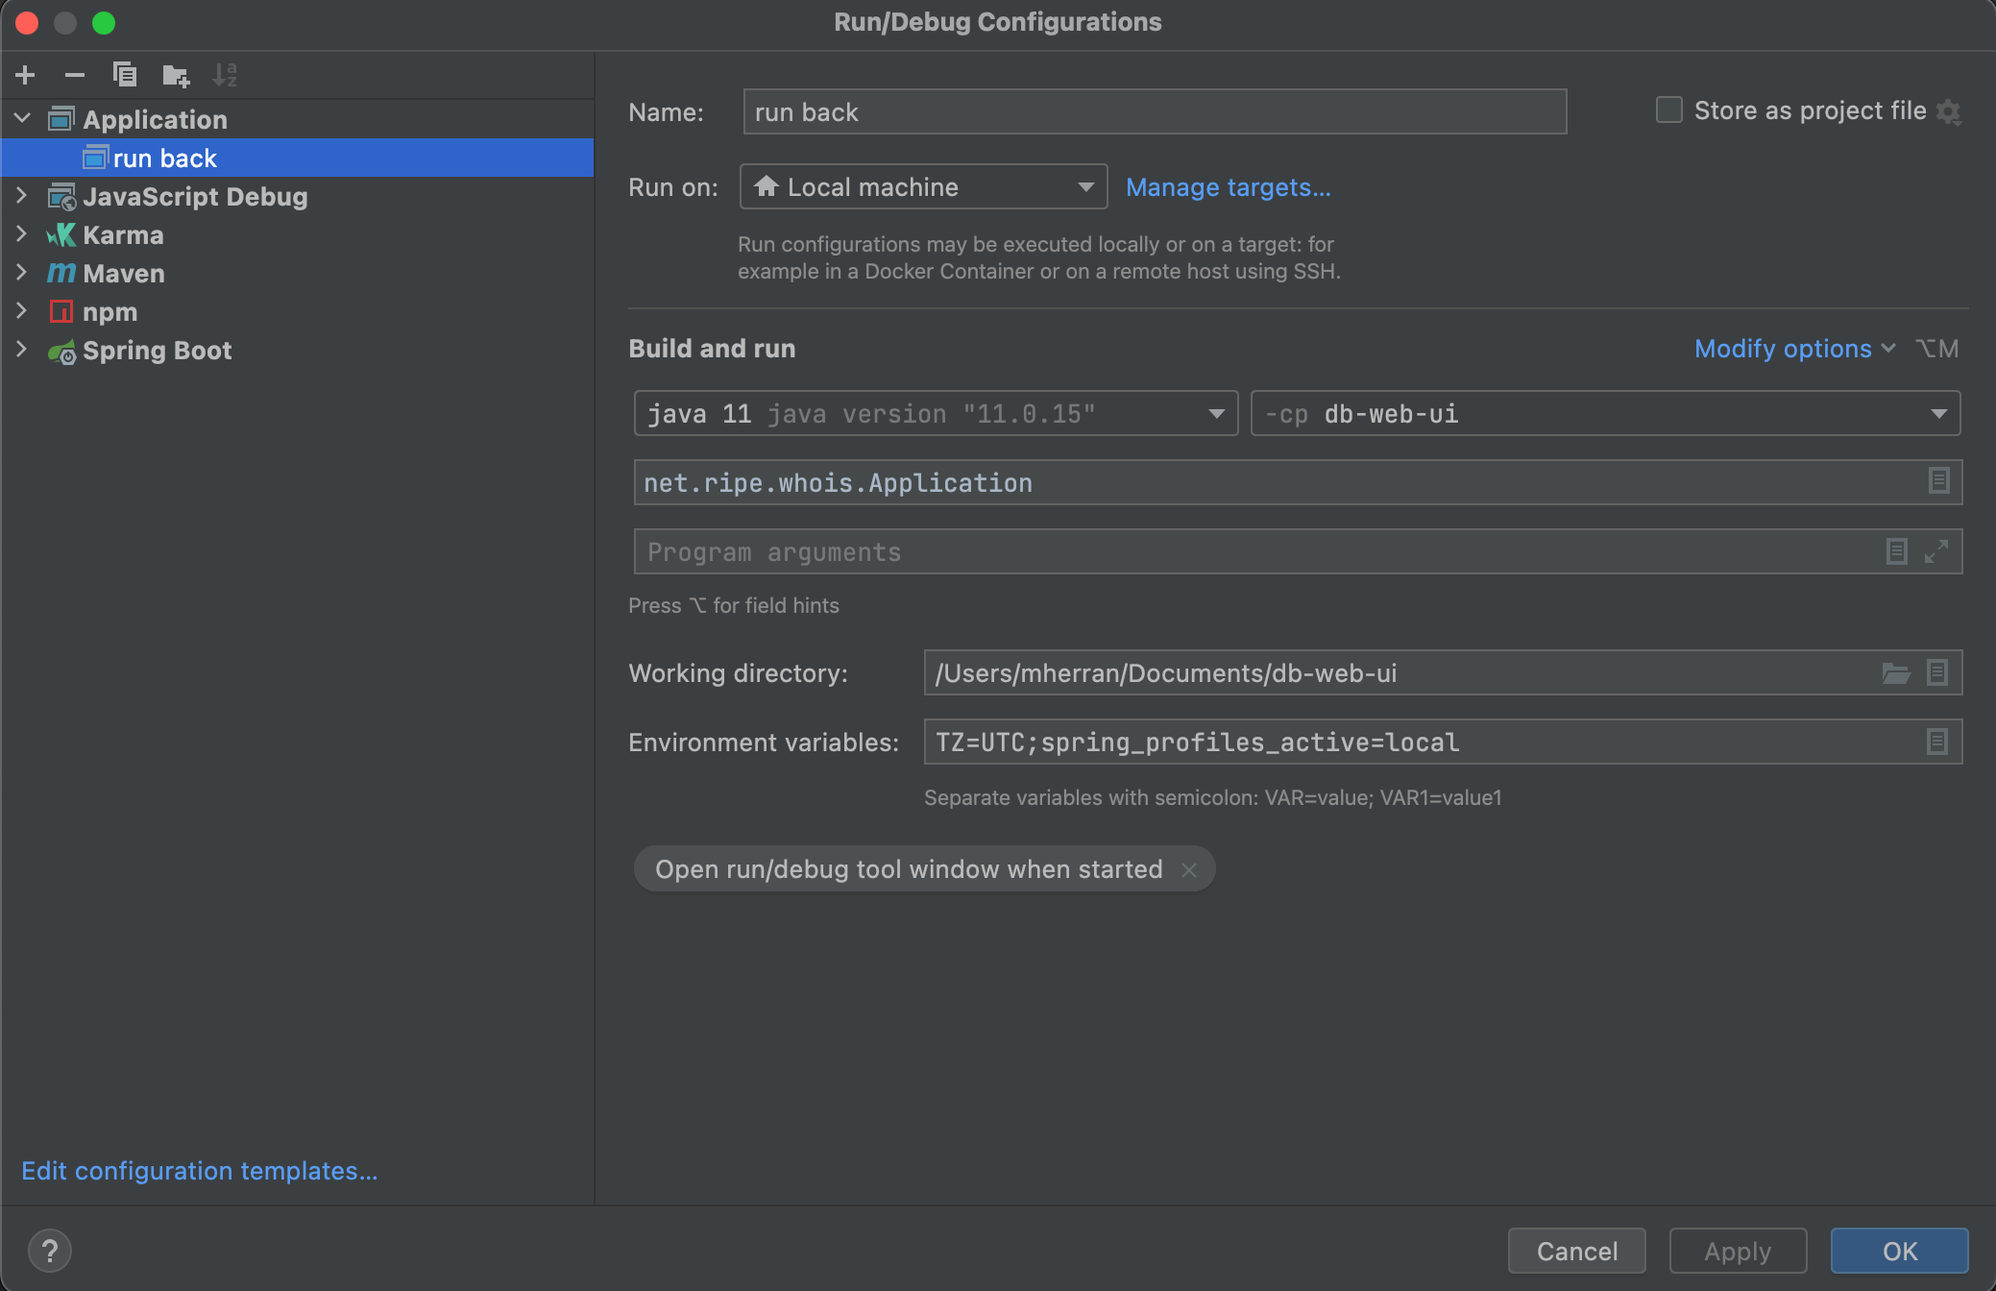
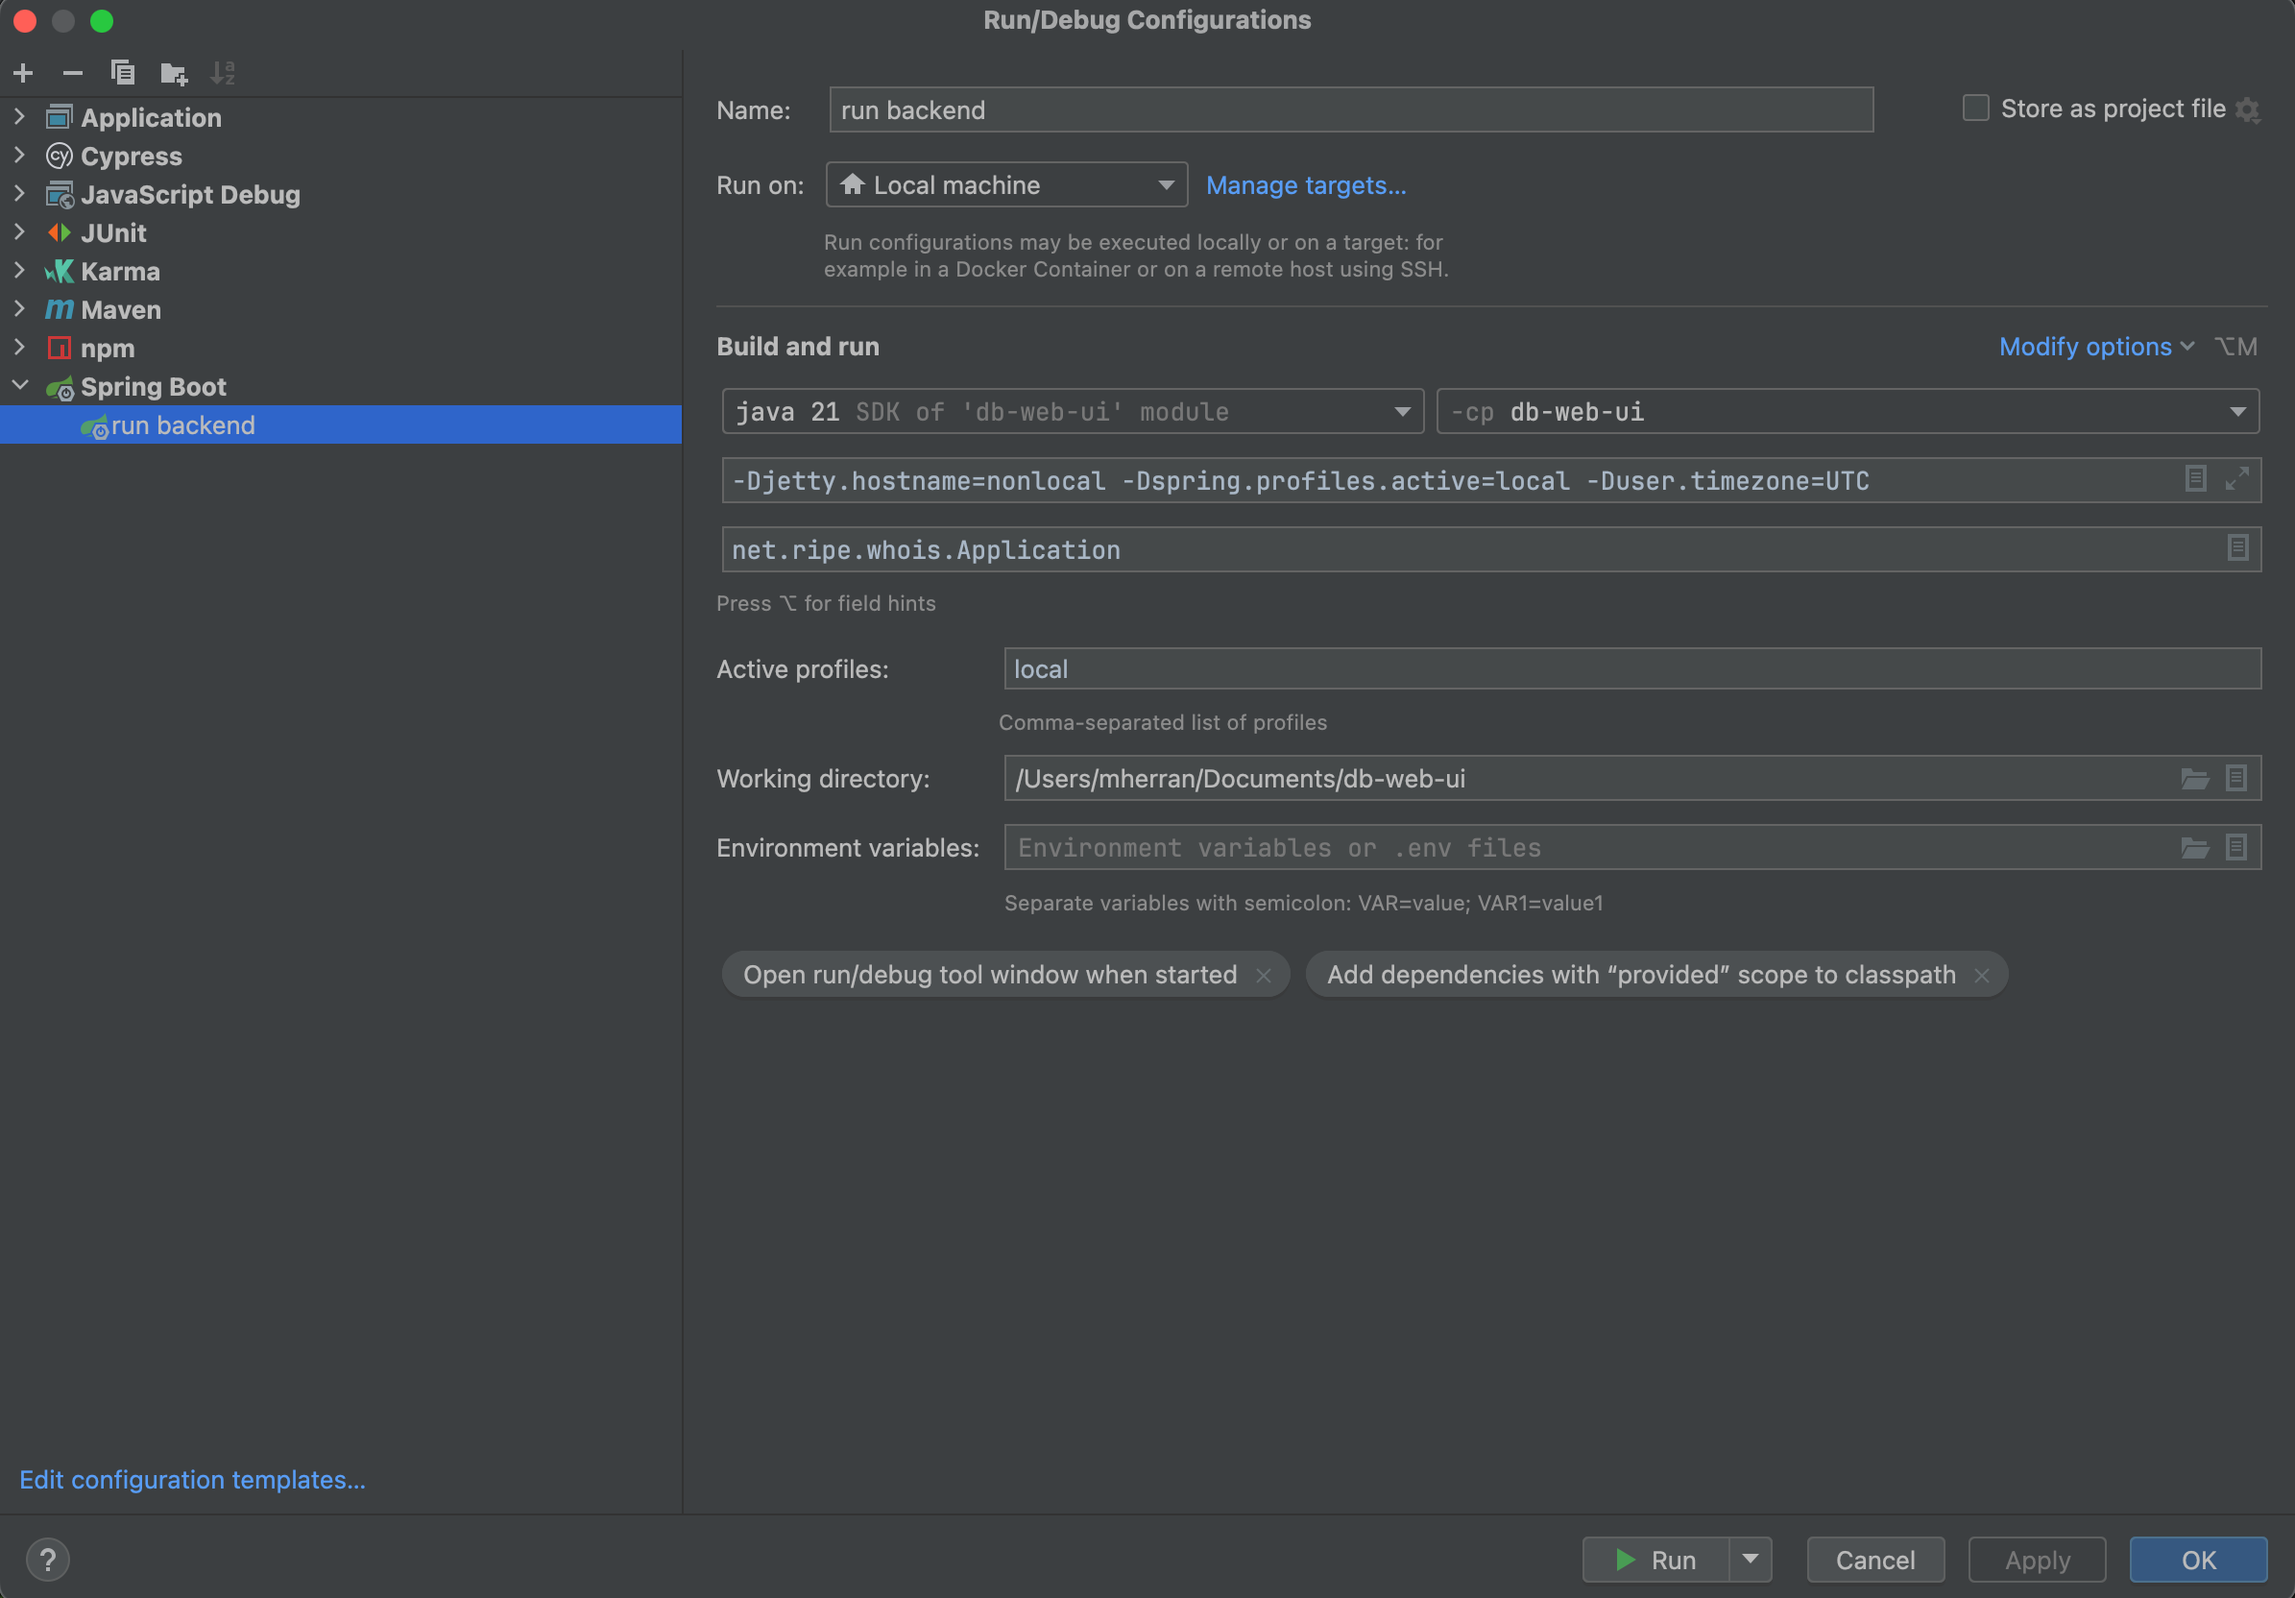
Update README with Updated Local Run Config

diff --git a/README.md b/README.md
@@ -23,12 +23,11 @@ Start Full Development Server (Frontend + Backend) on Local Machine
 
 * map `127.0.0.1` to `localhost.ripe.net` in your local hosts file
 
-* cd into the `backend` sub folder
+* Copy and paste `application-local.properties` from the credentials' manager. (make sure that this file is ignored by 
+  git)
 
-* execute (using the Spring Boot Maven Plugin) execute: ```mvn spring-boot:run -Dspring-boot.run.profiles=local -Dspring.profiles.active=local -Dspring-boot.run.jvmArguments="-Duser.timezone=UTC"```. On the other hand, you can add a new configuration in Intellij.
+* Add and execute this configuration in Intellij.
   ![](doc/img/run_intellij_config.png)
-
-* or Right click on ```/backend/src/main/java/net/ripe/whois/Application.java run in intellij, make sure to add -Dspring.profiles.active=local```
 
 * access the app at: https://localhost.ripe.net:8443/db-web-ui/
 
